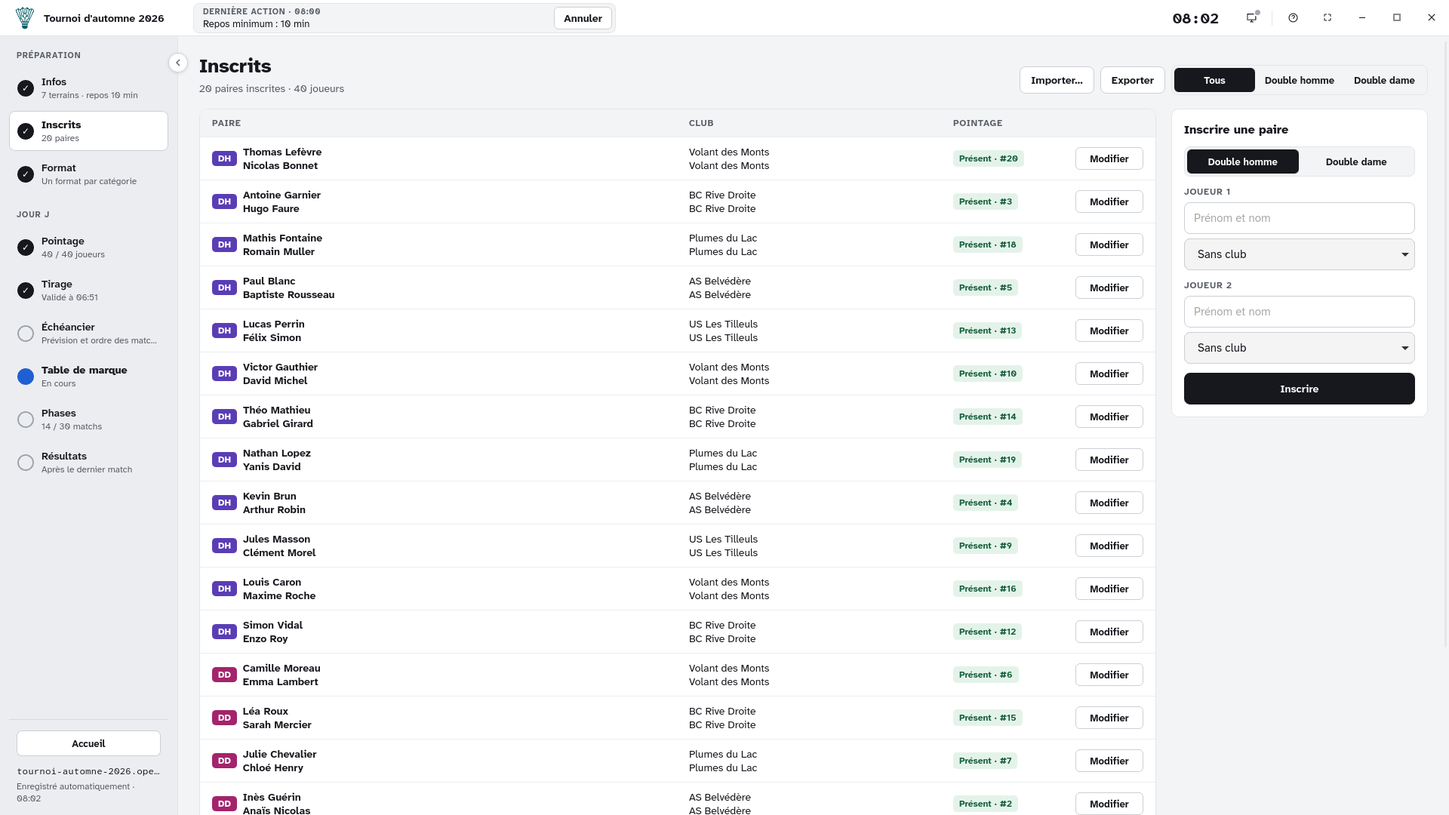
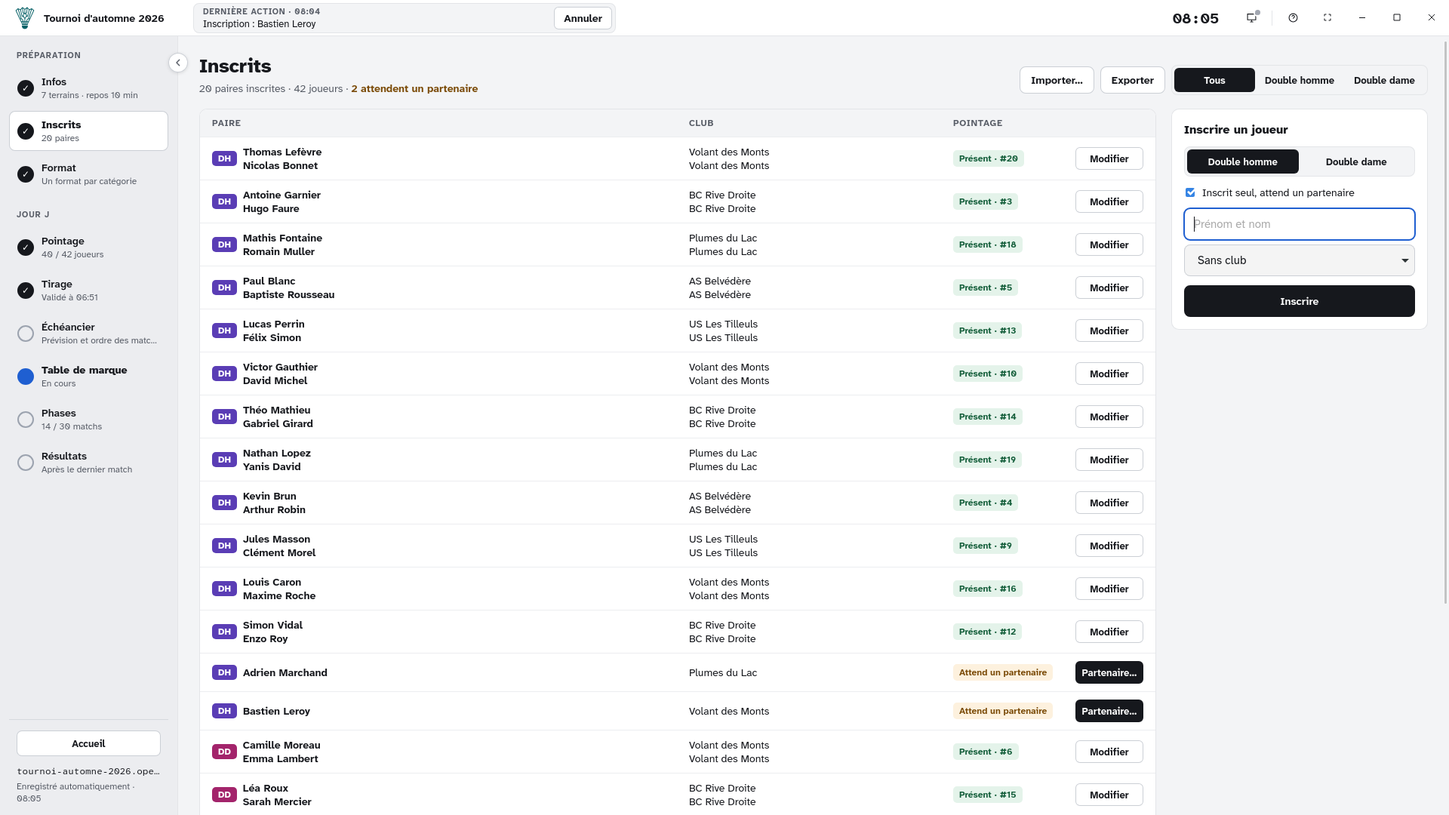
feat: update the site for desktop 1.2.0
New 1920x1080 screenshots: the home screen with the trash button, the
Entrants screen with two players registered alone and the "registered
alone" box, a new one of the Find a partner panel, and the Format screen
with a started stage fixed and explained. Guide step 1 presents the trash
and the remembered dialog folders; step 2 players registered alone,
pairing, adding a partner, splitting, and the forfeit once a team has
matches; step 3 the preview base and the per-stage lock (later stages
still change during the tournament). The changelog gets 1.2.0, the FAQ
two questions (registering alone, changing the format mid-tournament),
and the home page mentions players registering alone.

diff --git a/src/data/faq.ts b/src/data/faq.ts
@@ -55,6 +55,11 @@ export const faq: Record<Locale, FaqItem[]> = {
         '<p>Vous enchaînez librement des phases : poules, tableaux à élimination directe, tableau consolante, avec placement complet pour classer tout le monde place par place. Chaque phase a sa condition de victoire : nombre de sets, points par set, plafond, ou matchs au temps joués par rotations avec point en or (quand une seule catégorie joue).</p><p>Des presets prêts à l’emploi évitent de tout reconstruire d’un tournoi à l’autre.</p>',
     },
     {
+      question: 'Peut-on changer le format pendant le tournoi ?',
+      answer:
+        '<p>Oui, pour les phases qui n’ont pas commencé. Une phase se fige dès son premier match ; les suivantes restent modifiables pendant que les poules se jouent. Après des forfaits ou en cas de retard, vous pouvez par exemple passer le tableau final en un set, le transformer en poules, ou ajouter et supprimer une phase.</p>',
+    },
+    {
       question: 'OpenShuttle gère-t-il les classements des joueurs (P10, NC…) ?',
       answer:
         '<p>Non, il n’y a pas de niveau ni de classement fédéral. Pour équilibrer les poules, vous désignez vos têtes de série et les rangez dans l’ordre au moment du tirage.</p>',
@@ -63,6 +68,11 @@ export const faq: Record<Locale, FaqItem[]> = {
       question: 'Comment importer la liste des inscrits ?',
       answer:
         '<p>Depuis n’importe quel fichier CSV : un export HelloAsso, un tableur ou un export d’OpenShuttle. OpenShuttle devine le rôle de chaque colonne (catégorie, noms, clubs) et vous laisse corriger, avec un aperçu des inscriptions avant d’importer. Les lignes déjà inscrites sont signalées, et l’import s’annule d’un seul clic.</p>',
+    },
+    {
+      question: 'Un joueur s’inscrit sans partenaire, comment faire ?',
+      answer:
+        '<p>En double, inscrivez-le seul : il attend un partenaire et n’entre pas dans le tirage tant qu’il est seul. Le jour J, formez la paire avec un autre joueur seul de la catégorie ou ajoutez un partenaire sur place. Une ligne d’import avec un seul joueur l’inscrit de la même façon.</p>',
     },
     {
       question: 'Où sont enregistrés mes tournois ?',
@@ -129,6 +139,11 @@ export const faq: Record<Locale, FaqItem[]> = {
         '<p>You chain stages freely: pools, single elimination brackets, a consolation bracket, with full placement to rank everyone place by place. Each stage has its own win condition: sets to win, points per set, a point cap, or timed matches played in rounds with a golden point (when a single category plays).</p><p>Ready-made presets save you from rebuilding everything from one tournament to the next.</p>',
     },
     {
+      question: 'Can I change the format during the tournament?',
+      answer:
+        '<p>Yes, for the stages that have not started. A stage is fixed from its first match; the later ones stay open while the pools are played. After forfeits or when running late, you can for example play the final bracket in one set, turn it into pools, or add and remove a stage.</p>',
+    },
+    {
       question: 'Does OpenShuttle handle player rankings or levels?',
       answer:
         '<p>No, there are no levels or federation rankings. To balance the pools, you pick your seeds and put them in order at the draw.</p>',
@@ -137,6 +152,11 @@ export const faq: Record<Locale, FaqItem[]> = {
       question: 'How do I import the list of entrants?',
       answer:
         '<p>From any CSV file: a HelloAsso export, a spreadsheet or an OpenShuttle export. OpenShuttle guesses what each column holds (category, names, clubs) and lets you correct it, with a preview of the entrants before importing. Rows already entered are reported, and the whole import can be undone in one click.</p>',
+    },
+    {
+      question: 'A player registers without a partner. What do I do?',
+      answer:
+        '<p>In doubles, register them alone: they wait for a partner and stay out of the draw while alone. On the day, pair them with another player on their own in the category or add a partner on the spot. An import line with a single player enters them the same way.</p>',
     },
     {
       question: 'Where are my tournaments saved?',

diff --git a/src/data/home.ts b/src/data/home.ts
@@ -29,7 +29,7 @@ export const home = {
         label: '01 · AVANT',
         title: 'Préparer',
         items: [
-          'Inscriptions par paire, import CSV (HelloAsso, tableur) et export',
+          'Inscriptions par paire ou joueur seul, import CSV (HelloAsso, tableur) et export',
           'Format libre : poules, tableaux, consolante, classement complet',
           'Presets réutilisables d’un tournoi à l’autre',
         ],
@@ -120,7 +120,7 @@ export const home = {
         label: '01 · BEFORE',
         title: 'Prepare',
         items: [
-          'Entries by pair, CSV import (HelloAsso, spreadsheet) and export',
+          'Entries by pair or player alone, CSV import (HelloAsso, spreadsheet) and export',
           'Free format: pools, brackets, consolation, full standings',
           'Presets reused from one tournament to the next',
         ],

diff --git a/src/content/guide/fr/02-inscrits.md b/src/content/guide/fr/02-inscrits.md
@@ -4,14 +4,19 @@ title: Inscrire les participants
 summary: À la main ou par import d'un fichier CSV (export HelloAsso, tableur), avec le club de chaque joueur.
 images:
   - src: ../../../assets/guide/02-entrants-fr.png
-    alt: "L’écran Inscrits : la liste des paires avec leur club et leur dossard, et le formulaire Inscrire une paire"
+    alt: "L’écran Inscrits : la liste des paires avec leur club et leur dossard, deux joueurs inscrits seuls qui attendent un partenaire, et le formulaire d’inscription avec la case Inscrit seul, attend un partenaire"
     caption: "La liste des inscrits et le formulaire d’inscription"
+  - src: ../../../assets/guide/02-partner-fr.png
+    alt: "Le panneau Trouver un partenaire d’Adrien Marchand : former la paire avec Bastien Leroy, un autre joueur seul de la catégorie, ou ajouter un partenaire qui n’était pas inscrit"
+    caption: "Former une paire avec deux joueurs inscrits seuls"
   - src: ../../../assets/guide/02-import-fr.png
     alt: "L’import d’un export HelloAsso : les premières lignes du fichier, la colonne Tarif qui donne la catégorie avec la ligne Repas du midi ignorée, les colonnes du joueur 1 et du joueur 2, et l’aperçu des 7 inscriptions à importer"
     caption: "L’import : chaque colonne du fichier à sa place"
 ---
 
 Dans **Inscrits**, ajoutez les participants de chaque catégorie : un joueur en simple, une paire en double. Chaque joueur a un nom (prénom et nom) et un club, choisi dans la liste des clubs ou ajouté au passage.
+
+En double, un joueur sans partenaire s'inscrit seul : cochez **Inscrit seul, attend un partenaire**. Il apparaît « Attend un partenaire » et n'entre pas dans le tirage tant qu'il est seul. Avec **Partenaire…**, formez la paire avec un autre joueur seul de la catégorie (**Former la paire**) ou ajoutez un partenaire qui n'était pas inscrit. À l'inverse, **Séparer la paire** remet les deux joueurs en attente d'un partenaire.
 
 Vous avez déjà la liste ailleurs ? **Importer…** accepte n'importe quel fichier CSV : un export d'OpenShuttle, un export HelloAsso ou un tableur enregistré en CSV (séparateur point-virgule, virgule ou tabulation, encodage UTF-8 ou celui d'Excel sous Windows).
 
@@ -21,8 +26,10 @@ OpenShuttle devine ce que contient chaque colonne d'après la ligne d'en-tête, 
 - **chaque joueur** : soit une colonne avec le nom complet, soit une colonne pour le prénom et une pour le nom, et la colonne du club. Le partenaire peut reprendre le club du joueur 1 ;
 - **les paires** : cochez **Paires : un second joueur sur chaque ligne** quand le fichier donne les deux joueurs sur la même ligne.
 
-En dessous, l'aperçu se met à jour en direct : les inscriptions à importer, les lignes non importées avec leur raison (déjà inscrite, catégorie non jouée…) et les lignes ignorées. Rien n'est enregistré avant de cliquer sur **Importer N inscriptions**. Une paire inscrite par chacun de ses deux joueurs n'est enregistrée qu'une fois. Tout l'import s'annule d'un seul **Annuler**.
+En dessous, l'aperçu se met à jour en direct : les inscriptions à importer, les lignes non importées avec leur raison (déjà inscrite, catégorie non jouée…) et les lignes ignorées. Rien n'est enregistré avant de cliquer sur **Importer N inscriptions**. Une paire inscrite par chacun de ses deux joueurs n'est enregistrée qu'une fois, et une ligne avec un seul joueur l'inscrit seul, en attente d'un partenaire. Tout l'import s'annule d'un seul **Annuler**.
 
 **Exporter** enregistre la liste en CSV : pratique pour la garder d'une année sur l'autre et la réimporter.
 
 > Deux joueurs portent le même nom ? OpenShuttle vous prévient, sans bloquer : les homonymes existent. Le jour J, le dossard les distinguera.
+
+> Une fois le tirage validé, une équipe a des matchs : elle ne peut plus être retirée ni séparée, mais son nom et son club se corrigent toujours. Si elle abandonne, déclarez un forfait (**Phases**, mode correction).

diff --git a/src/content/guide/en/02-entrants.md b/src/content/guide/en/02-entrants.md
@@ -4,14 +4,19 @@ title: Add the entrants
 summary: By hand or by importing a CSV file (HelloAsso export, spreadsheet), with each player's club.
 images:
   - src: ../../../assets/guide/02-entrants-en.png
-    alt: "The Entrants screen: the list of pairs with their club and bib number, and the Add a pair form"
+    alt: "The Entrants screen: the list of pairs with their club and bib number, two players registered alone waiting for a partner, and the entry form with the Registered alone, waiting for a partner box"
     caption: "The entrants list and the entry form"
+  - src: ../../../assets/guide/02-partner-en.png
+    alt: "The Find a partner panel of Adrien Marchand: pair him with Bastien Leroy, another player on his own in the category, or add a partner who was not registered"
+    caption: "Pairing two players registered alone"
   - src: ../../../assets/guide/02-import-en.png
     alt: "Importing a HelloAsso export: the first lines of the file, the Tarif column giving the category with the lunch line ignored, the player 1 and player 2 columns, and the preview of the 7 entrants to import"
     caption: "Import: each column of the file in its place"
 ---
 
 In **Entrants**, add the entrants of each category: a player in singles, a pair in doubles. Each player has a name (first and last name) and a club, picked from the club list or added on the way.
+
+In doubles, a player without a partner registers alone: tick **Registered alone, waiting for a partner**. They show as "Waiting for a partner" and stay out of the draw while alone. With **Partner…**, pair them with another player on their own in the category (**Form the pair**) or add a partner who was not registered. The other way round, **Split the pair** puts both players back to waiting for a partner.
 
 Already have the list elsewhere? **Import…** takes any CSV file: an OpenShuttle export, a HelloAsso export or a spreadsheet saved as CSV (semicolon, comma or tab separated, UTF-8 or Excel's Windows encoding).
 
@@ -21,8 +26,10 @@ OpenShuttle guesses what each column holds from the header line, and shows its g
 - **each player**: either one column with the full name, or one column for the first name and one for the last name, and the club column. The partner can take player 1's club;
 - **pairs**: tick **Pairs: a second player on each line** when the file gives both players on the same line.
 
-Below, the preview updates live: the entrants to import, the lines skipped with the reason (already entered, category not played…) and the lines ignored. Nothing is entered until you click **Import N entrants**. A pair registered by each of its two players is entered once. The whole import is cancelled by a single **Undo**.
+Below, the preview updates live: the entrants to import, the lines skipped with the reason (already entered, category not played…) and the lines ignored. Nothing is entered until you click **Import N entrants**. A pair registered by each of its two players is entered once, and a line with a single player enters them alone, waiting for a partner. The whole import is cancelled by a single **Undo**.
 
 **Export** saves the list as CSV: handy to keep it from one year to the next and import it again.
 
 > Two players with the same name? OpenShuttle warns you without blocking: namesakes exist. On the day, the bib number tells them apart.
+
+> Once the draw is confirmed, a team has matches: it can no longer be removed or split, but its names and clubs can still be corrected. If it stops, declare a forfeit (**Stages**, correction mode).

diff --git a/src/content/guide/fr/03-format.md b/src/content/guide/fr/03-format.md
@@ -4,7 +4,7 @@ title: Choisir le format
 summary: Poules, tableaux, consolante et placement complet, à partir d'un preset ou sur mesure.
 images:
   - src: ../../../assets/guide/03-format-fr.png
-    alt: "L’écran Format : une phase de 3 poules de 4 reliée au tableau principal, les réglages de la phase à droite et l’aperçu pour 12 participants en bas"
+    alt: "L’écran Format : une phase de 3 poules de 4, lancée, reliée au tableau principal ; à droite ses réglages figés avec la note qui l’explique, en bas l’aperçu pour 12 participants"
     caption: "Le graphe des phases, ses réglages et l’aperçu"
 ---
 
@@ -22,8 +22,8 @@ Vous pouvez aussi construire le format vous-même :
 - **le routage** : quels rangs de quelle phase vont dans quelle phase suivante (les rangs 1 à 3, les meilleurs 4es, le reste…) ;
 - **la condition de victoire** de chaque phase : sets gagnants, points par set, plafond de points, ou match au temps avec point en or, et la durée estimée sur le terrain qui sert à l'échéancier.
 
-Sous l'éditeur, la simulation montre pour votre nombre d'inscrits les poules, le nombre de matchs, de tours et les places jouées. Un format qui vous plaît s'enregistre comme preset, réutilisable dans vos prochains tournois.
+Sous l'éditeur, la simulation montre pour votre nombre d'inscrits les poules, le nombre de matchs, de tours et les places jouées. Avant le tirage, choisissez la base de cet aperçu : **Paires complètes** (sans les joueurs qui attendent un partenaire), **Toutes les inscriptions** ou **Présentes** (celles que le tirage prendra). Un format qui vous plaît s'enregistre comme preset, réutilisable dans vos prochains tournois.
 
 > Les matchs au temps se jouent par rotations : tous les terrains commencent et finissent ensemble. Ils ne sont possibles que lorsqu'une seule catégorie joue.
 
-Le format reste modifiable jusqu'au premier match appelé ou joué dans la catégorie.
+Chaque phase se fige dès son premier match appelé ou joué : son type, sa taille, sa condition de victoire et ses départages ne changent plus, son nom et son routage si. Les phases suivantes restent modifiables pendant que les poules se jouent : après des forfaits ou en cas de retard, passez le tableau final en un set, transformez-le en poules, ajoutez ou supprimez une phase. Si la phase était déjà remplie, changer son type, sa taille ou les rangs qui l'alimentent la vide : remplissez-la à nouveau depuis **Phases**.

diff --git a/src/content/guide/fr/01-creer-le-tournoi.md b/src/content/guide/fr/01-creer-le-tournoi.md
@@ -4,14 +4,14 @@ title: Créer le tournoi et ses catégories
 summary: Un fichier par tournoi, une ou deux catégories, le nombre de terrains et le repos minimum.
 images:
   - src: ../../../assets/guide/01-home-fr.png
-    alt: "L’écran d’accueil d’OpenShuttle : la liste des tournois récents avec les boutons Essayer avec un tournoi d’exemple, Ouvrir un fichier et Nouveau tournoi"
+    alt: "L’écran d’accueil d’OpenShuttle : la liste des tournois récents avec, pour chacun, les boutons corbeille, Dupliquer et Ouvrir, et en haut Essayer avec un tournoi d’exemple, Ouvrir un fichier et Nouveau tournoi"
     caption: "L’accueil : tournois récents, tournoi d’exemple et Nouveau tournoi"
   - src: ../../../assets/guide/01-infos-fr.png
     alt: "L’écran Infos du tournoi : le nom, les catégories Double homme et Double dame sélectionnées, 7 terrains et 10 minutes de repos minimum"
     caption: "Infos : catégories, terrains et repos minimum"
 ---
 
-Sur l'écran d'accueil, cliquez sur **Nouveau tournoi** et donnez-lui un nom. OpenShuttle crée un fichier `.openshuttle` sur votre ordinateur : tout le tournoi y est enregistré, action après action. Préparez-le tranquillement chez vous les jours précédents, il pourra encore changer le jour J.
+Sur l'écran d'accueil, cliquez sur **Nouveau tournoi** et donnez-lui un nom. OpenShuttle crée un fichier `.openshuttle` sur votre ordinateur : tout le tournoi y est enregistré, action après action. Préparez-le tranquillement chez vous les jours précédents, il pourra encore changer le jour J. Les fenêtres d’ouverture et d’enregistrement de fichiers s’ouvrent dans le dernier dossier utilisé.
 
 Dans **Infos**, réglez :
 
@@ -24,3 +24,5 @@ Dans **Infos**, réglez :
 À tout moment, le bouton **?** de la barre du haut ouvre ce guide.
 
 > Vous refaites le même tournoi chaque année ? Sur l'écran d'accueil, **Dupliquer** reprend les catégories, le format et les terrains d'un tournoi précédent, sans les inscrits.
+
+> Un tournoi dont vous n'avez plus besoin ? Le bouton corbeille le retire de la liste, sans toucher au fichier. Depuis **Corbeille**, vous le restaurez, ou le supprimez définitivement, avec son fichier si vous le souhaitez.

diff --git a/src/content/guide/en/03-format.md b/src/content/guide/en/03-format.md
@@ -4,7 +4,7 @@ title: Choose the format
 summary: Pools, brackets, consolation and full placement, from a preset or tailor-made.
 images:
   - src: ../../../assets/guide/03-format-en.png
-    alt: "The Format screen: a stage of 3 pools of 4 linked to the main bracket, the stage settings on the right and the preview for 12 entrants below"
+    alt: "The Format screen: a started stage of 3 pools of 4 linked to the main bracket; on the right its fixed settings with the note explaining why, below the preview for 12 entrants"
     caption: "The stage graph, its settings and the preview"
 ---
 
@@ -22,8 +22,8 @@ You can also build the format yourself:
 - **advancement rules**: which ranks of which stage go to which later stage (ranks 1 to 3, the best 4th places, the rest…);
 - **the win condition** of each stage: sets to win, points per set, point cap, or timed match with a golden point, and the estimated time on court used by the schedule.
 
-Below the editor, the simulation shows for your number of entrants the pools, the number of matches and rounds, and the places played. A format you like can be saved as a preset, ready for your next tournaments.
+Below the editor, the simulation shows for your number of entrants the pools, the number of matches and rounds, and the places played. Before the draw, choose what this preview counts: **Complete pairs** (without the players waiting for a partner), **All entries** or **Present** (the ones the draw will take). A format you like can be saved as a preset, ready for your next tournaments.
 
 > Timed matches are played in rounds: every court starts and ends together. They are only available when a single category plays.
 
-The format can be changed until the first match of the category is called or scored.
+Each stage is fixed once its first match is called or scored: its kind, size, win condition and tiebreaks no longer change, its name and routing still do. Later stages stay open while the pools are played: after forfeits or when running late, play the final bracket in one set, turn it into pools, add or remove a stage. If the stage was already filled, changing its kind, its size or the ranks feeding it empties it: fill it again from **Stages**.

diff --git a/src/content/guide/en/01-create-the-tournament.md b/src/content/guide/en/01-create-the-tournament.md
@@ -4,14 +4,14 @@ title: Create the tournament and its categories
 summary: One file per tournament, one or two categories, the number of courts and the minimum rest.
 images:
   - src: ../../../assets/guide/01-home-en.png
-    alt: "The OpenShuttle home screen: the list of recent tournaments with the Try with a sample tournament, Open a file and New tournament buttons"
+    alt: "The OpenShuttle home screen: the list of recent tournaments each with its trash, Duplicate and Open buttons, and at the top Try with a sample tournament, Open a file and New tournament"
     caption: "Home: recent tournaments, sample tournament and New tournament"
   - src: ../../../assets/guide/01-infos-en.png
     alt: "The Tournament info screen: the name, the Men’s doubles and Women’s doubles categories selected, 7 courts and a 10-minute minimum rest"
     caption: "Info: categories, courts and minimum rest"
 ---
 
-On the home screen, click **New tournament** and give it a name. OpenShuttle creates an `.openshuttle` file on your computer: the whole tournament is saved there, action after action. Prepare it quietly at home in the days before; it can still change on the day.
+On the home screen, click **New tournament** and give it a name. OpenShuttle creates an `.openshuttle` file on your computer: the whole tournament is saved there, action after action. Prepare it quietly at home in the days before; it can still change on the day. File dialogs open in the folder you used last.
 
 In **Info**, set:
 
@@ -24,3 +24,5 @@ In **Info**, set:
 At any time, the **?** button in the top bar opens this guide.
 
 > Running the same tournament every year? On the home screen, **Duplicate** copies the categories, format and courts of a previous tournament, without the entrants.
+
+> A tournament you no longer need? The trash button removes it from the list without touching the file. From **Trash**, restore it, or delete it for good, with its file if you wish.

diff --git a/src/content/pages/fr/nouveautes.md b/src/content/pages/fr/nouveautes.md
@@ -4,8 +4,19 @@ title: "Nouveautés d’OpenShuttle : historique des versions"
 description: "Ce qui change à chaque version d’OpenShuttle : nouvelles fonctionnalités et corrections, de la plus récente à la plus ancienne."
 heading: "Nouveautés"
 lead: "Ce qui change à chaque version de l’application, de la plus récente à la plus ancienne. Pour mettre à jour, téléchargez la nouvelle version et installez-la par-dessus : vos tournois sont conservés."
-updated: 2026-10-21
+updated: 2026-11-04
 ---
+
+## Version 1.2.0 · 4 novembre 2026
+
+- **Nouveau :** en double, un joueur peut s’inscrire seul et attendre un partenaire. Le jour J, formez la paire avec un autre joueur seul ou ajoutez un partenaire sur place ; une paire peut aussi être séparée tant qu’elle n’a pas joué.
+- **Nouveau :** le format d’une phase suivante se modifie pendant le tournoi, tant qu’aucun de ses matchs n’a commencé. Après des forfaits ou en cas de retard, passez le tableau final en un set, transformez-le en poules, ajoutez ou supprimez une phase.
+- **Nouveau :** une corbeille sur l’accueil. Un tournoi dont vous n’avez plus besoin quitte la liste ; vous le restaurez ou le supprimez plus tard.
+- **Nouveau :** l’aperçu du format se calcule au choix pour les paires complètes, toutes les inscriptions ou les présents.
+- **Amélioré :** chaque fenêtre de choix de fichier (import, export, ouverture, archive) s’ouvre dans le dernier dossier utilisé.
+- **Amélioré :** une équipe qui a déjà des matchs ne peut plus être retirée ou séparée par erreur : l’écran Inscrits indique de déclarer un forfait.
+
+[Détails techniques de la version 1.2.0 sur GitHub](https://github.com/OpenShuttle/openshuttle-app/releases/tag/desktop-v1.2.0)
 
 ## Version 1.1.0 · 21 octobre 2026
 

diff --git a/src/content/pages/en/changelog.md b/src/content/pages/en/changelog.md
@@ -4,8 +4,19 @@ title: "OpenShuttle changelog: what is new in each version"
 description: "What changes in each version of OpenShuttle: new features and fixes, from the latest to the oldest."
 heading: "Changelog"
 lead: "What changes in each version of the app, from the latest to the oldest. To update, download the new version and install it over the old one: your tournaments are kept."
-updated: 2026-10-21
+updated: 2026-11-04
 ---
+
+## Version 1.2.0 · November 4, 2026
+
+- **New:** in doubles, a player can register alone and wait for a partner. On the day, pair them with another player on their own or add a partner on the spot; a pair can also be split as long as it has not played.
+- **New:** the format of a later stage can change during the tournament, as long as none of its matches has started. After forfeits or when running late, play the final bracket in one set, turn it into pools, add or remove a stage.
+- **New:** a trash on the home screen. A tournament you no longer need leaves the list; restore it or delete it later.
+- **New:** the format preview counts, as you choose, the complete pairs, every entry or the present ones.
+- **Improved:** each file dialog (import, export, open, archive) opens in the folder you used last.
+- **Improved:** a team that already has matches can no longer be removed or split by mistake: the Entrants screen points you to a forfeit.
+
+[Technical details of version 1.2.0 on GitHub](https://github.com/OpenShuttle/openshuttle-app/releases/tag/desktop-v1.2.0)
 
 ## Version 1.1.0 · October 21, 2026
 
